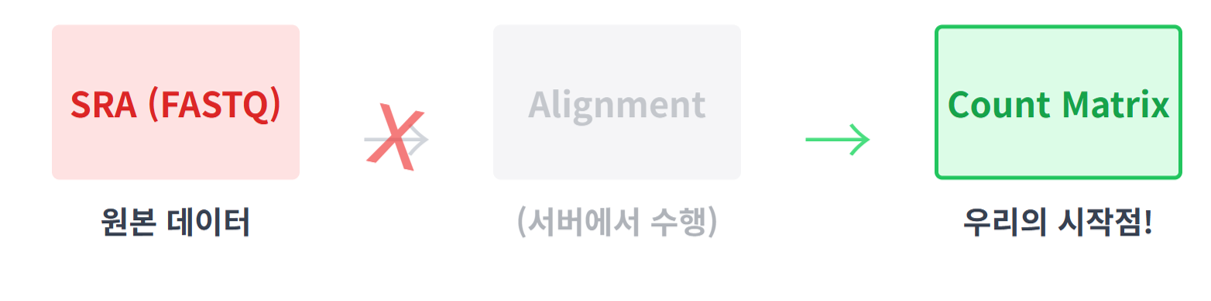
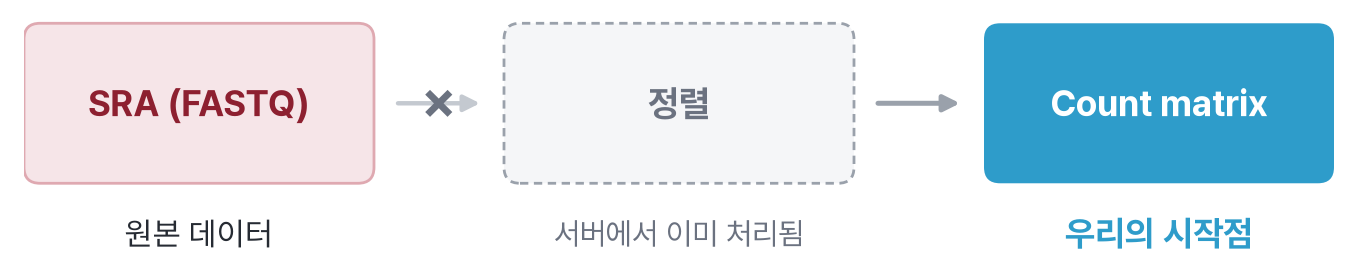
figures W4: redraw W4_geo (KO/EN), fix double-slash image paths

diff --git a/scripts/figs/W4_geo.py b/scripts/figs/W4_geo.py
@@ -1,0 +1,38 @@
+# W4 §1 "우리가 시작하는 지점": SRA(FASTQ) → 정렬(서버) → count matrix. 우리는 count matrix부터 시작
+# 원본: assets/img/part1/W4_geo.png → 다시 그림
+from medfig import *
+
+L = {
+    "ko": dict(raw="원본 데이터", aln="정렬", srv="서버에서 이미 처리됨",
+               start="우리의 시작점"),
+    "en": dict(raw="raw data", aln="Alignment", srv="already done on a server",
+               start="where we start"),
+}
+
+
+def draw(t):
+    fig, ax = new(6.6, 1.75)
+    y, h, w = 0.6, 0.8, 1.75
+    xs = [0.0, 2.4, 4.8]
+    # ① SRA (FASTQ)
+    box(ax, xs[0], y, w, h, fc=mix(CAT[0], 0.12), ec=mix(CAT[0], 0.4))
+    label(ax, xs[0] + w / 2, y + h / 2, "SRA (FASTQ)", fs=13, w="bold", c=shade(CAT[0], 0.2))
+    label(ax, xs[0] + w / 2, y - 0.25, t["raw"], fs=11.5, c=TEXT)
+    # ② 정렬: 흐리게, 점선 테두리
+    box(ax, xs[1], y, w, h, fc=FAINT, ec="#9AA1AB", ls=(0, (3, 2)))
+    label(ax, xs[1] + w / 2, y + h / 2, t["aln"], fs=13, w="bold", c=TEXT2)
+    label(ax, xs[1] + w / 2, y - 0.25, t["srv"], fs=11, c=TEXT2)
+    # ③ count matrix: 강조(그림당 하나)
+    box(ax, xs[2], y, w, h, fc=ACCENT, ec="none")
+    label(ax, xs[2] + w / 2, y + h / 2, "Count matrix", fs=13, w="bold", c=ON_ACCENT)
+    label(ax, xs[2] + w / 2, y - 0.25, t["start"], fs=12.5, w="bold", c=ACCENT_INK)
+    # 화살표: FASTQ → 정렬은 우리가 하지 않음(✗), 정렬 → count matrix
+    am = y + h / 2
+    arrow(ax, xs[0] + w + 0.12, am, xs[1] - 0.12, am, color="#C4C9D0", lw=1.6)
+    label(ax, (xs[0] + w + xs[1]) / 2, am + 0.01, "✗", fs=18, w="bold", c=TEXT2)
+    arrow(ax, xs[1] + w + 0.12, am, xs[2] - 0.12, am, color="#9AA1AB", lw=1.8)
+    return fig
+
+
+for lang, suffix in [("ko", ""), ("en", "_en")]:
+    save(draw(L[lang]), f"../../assets/img/part1/W4_geo{suffix}.png")
